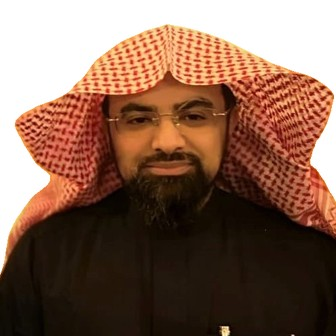
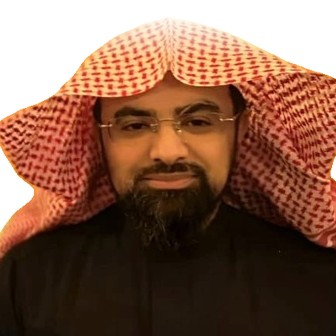
The reciters' photos by Talal's decision and on his responsibility (0054-add1): Mishary Alafasy (Commons, «Copyrighted free use», quranic.ru), Ahmad Al-Ajmi (Commons, CC BY-SA 3.0, أحمد زين) and Yasser Al-Dosari (Flickr, CC BY-SA 2.0, Hudhayfah Ammar), each cut out on white with rembg; all five recu
Claude-Session: https://claude.ai/code/session_01Us2TDE7NdZ8Jsqkkr4TUAg

diff --git a/worker/test/sources.test.ts b/worker/test/sources.test.ts
@@ -167,9 +167,9 @@ describe('the registry (data/sources.json)', () => {
     const dir = path.join(ROOT, 'web/src/v2/reading/photos')
     const avatar = fs.readFileSync(path.join(ROOT, 'web/src/v2/reading/ReciterAvatar.tsx'), 'utf8')
     const files = fs.readdirSync(dir).sort()
-    expect(files).toEqual(['abdulrahman-alsudais.jpg', 'nasser-alqatami.jpg'])
+    expect(files).toEqual(['abdulrahman-alsudais.jpg', 'ahmad-alajmi.jpg', 'mishary-alafasy.jpg', 'nasser-alqatami.jpg', 'yasser-aldosari.jpg'])
     for (const f of files) expect(avatar).toContain(`'./photos/${f}'`)
-    expect(avatar).toMatch(/RECITER_PHOTOS[^=]*= \{ 86: qatami, 54: sudais \}/)
+    expect(avatar).toMatch(/RECITER_PHOTOS[^=]*= \{ 86: qatami, 54: sudais, 123: afasy, 5: ajmi, 92: dosari \}/)
     const qatami = byId('photo-alqatami')
     expect(qatami.licence).toEqual({ name: 'CC BY-SA 4.0', url: 'https://creativecommons.org/licenses/by-sa/4.0/' })
     expect((qatami.credit as Record<string, string>).ar).toBe('أيمن ذو الغنى، CC BY-SA 4.0، عبر ويكيميديا كومنز')
@@ -180,6 +180,17 @@ describe('the registry (data/sources.json)', () => {
     for (const s of [qatami, sudais]) {
       expect(s.group).toBe('recitation')
       expect(String(s.site)).toMatch(/^https:\/\/commons\.wikimedia\.org\/wiki\/File:/)
+    }
+    // 0054-add1: three more, each with the licence its page declares, word for word, and the link to the file.
+    const more = { 'photo-alafasy': ['Copyrighted free use', 'quranic.ru، Copyrighted free use، عبر ويكيميديا كومنز', /^https:\/\/commons\.wikimedia\.org\/wiki\/File:/],
+      'photo-alajmi': ['CC BY-SA 3.0', 'أحمد زين، CC BY-SA 3.0، عبر ويكيميديا كومنز', /^https:\/\/commons\.wikimedia\.org\/wiki\/File:Ahmad_bin_Ali_Al-Ajmi\.png$/],
+      'photo-aldosari': ['CC BY-SA 2.0', 'Hudhayfah Ammar، CC BY-SA 2.0، عبر فليكر', /^https:\/\/www\.flickr\.com\/photos\/193847236@N06\/52088123559\/$/] } as const
+    for (const [id, [lic, ar, site]] of Object.entries(more)) {
+      const s = byId(id)
+      expect(s.group, id).toBe('recitation')
+      expect((s.licence as { name: string }).name, id).toBe(lic)
+      expect((s.credit as Record<string, string>).ar, id).toBe(ar)
+      expect(String(s.site), id).toMatch(site)
     }
   })
 })

diff --git a/web/src/v2/reading/ReciterAvatar.tsx b/web/src/v2/reading/ReciterAvatar.tsx
@@ -1,14 +1,19 @@
 import type { Reciter } from '../../quran/recitation'
 import qatami from './photos/nasser-alqatami.jpg'
 import sudais from './photos/abdulrahman-alsudais.jpg'
+import afasy from './photos/mishary-alafasy.jpg'
+import ajmi from './photos/ahmad-alajmi.jpg'
+import dosari from './photos/yasser-aldosari.jpg'
 import './ReciterAvatar.css'
 
 /** The reciters' photos (reply 0047 §1; CLAUDE.md §8: real photos of reciters with a known licence and its credit), by
- *  mp3quran's read id, cut to the head and shoulders from the Commons files: Nasser Alqatami by Ayman dhū alghiná
- *  (CC BY-SA 4.0, VRT ticket 2024071410002913; the cut stays CC BY-SA 4.0), Abdulrahman Alsudais by the Prime
- *  Minister's Office of India (GODL-India); both cut out on white with rembg (reply 0054 أ1). Their credits are on
- *  «المصادر والشكر» (data/sources.json). */
-export const RECITER_PHOTOS: Partial<Record<number, string>> = { 86: qatami, 54: sudais }
+ *  mp3quran's read id, cut to the head and shoulders and cut out on white with rembg, one frame for all (reply 0054 أ1):
+ *  Nasser Alqatami by Ayman dhū alghiná (CC BY-SA 4.0, VRT ticket 2024071410002913), Abdulrahman Alsudais by the Prime
+ *  Minister's Office of India (GODL-India), Mishary Alafasy from quranic.ru («Copyrighted free use» on Commons), Ahmad
+ *  Al-Ajmi by أحمد زين (CC BY-SA 3.0) and Yasser Al-Dosari by Hudhayfah Ammar on Flickr (CC BY-SA 2.0); the cuts of
+ *  the CC BY-SA ones stay under their licence. The last three by Talal's decision and on his responsibility (0054-add1).
+ *  Abdulbasit Abdulsamad keeps his initial: no licensed photo of him shows his face. Credits on «المصادر والشكر». */
+export const RECITER_PHOTOS: Partial<Record<number, string>> = { 86: qatami, 54: sudais, 123: afasy, 5: ajmi, 92: dosari }
 
 /** A reciter's circle (board RecitersFav): his photo where there is one, else the initial of his name in a medallion.
  *  His name is always written beside it, so the circle is hidden from screen readers. */

diff --git a/web/e2e/v2-0047.spec.ts b/web/e2e/v2-0047.spec.ts
@@ -22,7 +22,7 @@ const shot = async (page: Page, name: string, el?: ReturnType<Page['locator']>) 
   fs.mkdirSync(SHOTS, { recursive: true })
   await (el ?? page).screenshot({ path: path.join(SHOTS, `${name}.png`), animations: 'disabled' })
 }
-const PHOTOS = [86, 54]
+const PHOTOS = [86, 54, 123, 5, 92] // 0054-add1: Abdulbasit (53) keeps his initial
 const byRead = (read: number) => config.reciters.find((r) => r.read === read)!
 
 test.describe('§1 the reciters\' photos', () => {
@@ -60,10 +60,10 @@ test.describe('§1 the reciters\' photos', () => {
     const avatar = sheet.locator('.rd-listen .rd-avatar')
     await expect(avatar.locator('img')).toHaveCount(PHOTOS.includes(config.reciters[0].read) ? 1 : 0)
     await shot(page, 'listen-ar', sheet.locator('.rd-listen'))
-    // Mishary Alafasi has no photo with a known licence: the initial.
-    await page.evaluate(() => localStorage.setItem('imuslim.reciter.v1', '123'))
+    // Abdulbasit Abdulsamad has no photo that shows his face (0054-add1): the initial.
+    await page.evaluate(() => localStorage.setItem('imuslim.reciter.v1', '53'))
     await page.reload()
-    await expect(page.locator('dialog.sheet[open] .rd-listen .rd-avatar')).toHaveText('م')
+    await expect(page.locator('dialog.sheet[open] .rd-listen .rd-avatar')).toHaveText('ع')
     await expect(page.locator('dialog.sheet[open] .rd-listen .rd-avatar img')).toHaveCount(0)
   })
 

diff --git a/web/e2e/v2-0047-player.spec.ts b/web/e2e/v2-0047-player.spec.ts
@@ -182,7 +182,7 @@ test('«تغيير القارئ» in the sheet: the reciters with their photos; 
   await sheet.getByRole('button', { name: ar.changeReciter }).click()
   const picker = page.locator('dialog.sheet[open]', { has: page.locator('.np-picker') })
   await expect(picker.locator('.np-pick')).toHaveCount(config.reciters.length)
-  await expect(picker.locator('.np-pick .rd-avatar img')).toHaveCount(2)
+  await expect(picker.locator('.np-pick .rd-avatar img')).toHaveCount(5) // 0054-add1: all but Abdulbasit
   await picker.locator('.np-pick', { hasText: qatami.name.ar }).click()
   await expect(sheet.locator('.np-name')).toHaveText(qatami.name.ar)
   await expect(sheet.locator('.rd-avatar.is-large img')).toHaveCount(1)

diff --git a/docs/DECISIONS.md b/docs/DECISIONS.md
@@ -999,3 +999,7 @@
     - **الذكر بلفظ آخر في الحديث:** يُبنى بالتبديل الذي يذكره الحديث أو شرحه بنصه، ولا يُعرض قبل مراجعة المنسّق حالةً حالة. وإن لم يذكره الحديث ولا شرحه، لا يُبنى شيء.
     - **وفي `mawaqif.json`:** كل ذكر قرآني يأخذ حقل `quran` نفسه.
   - **CLAUDE.md §3 القاعدة 4:** سطر الاستثناء.
+- **صور القرّاء على خلفية بيضاء** (رد 0054 أ1، والملحق 0054-add1، كلمة طلال 14 أكتوبر 17:47: «ما ابغا تواصل سوي الخطوه وانا بتحمل المسؤولية ابغا صورهم بخلفية بيضه لهم كلهم»):
+  - الصور الأربع ذات التوثيق الضعيف أُدخلت بقرار طلال وعلى مسؤوليته، بعد أن بيّن له المنسّق أن التفريغ لا يغني عن الإذن.
+  - **ما دخل:** صور منشورة برخصة حرة معلنة وحدها، مفرّغة على الأبيض بإطار واحد (rembg). وأُلغيت قنوات الإذن (0054 أ3)، ولا يُرسل شيء لأحد.
+  - **عبدالباسط عبدالصمد:** يبقى بحرفه الأول في البناء 11، لأن صورتيه برخصة معلنة في كومنز لا يظهر فيهما وجهه (مع الملك فيصل، ودار العلوم بديوبند). والقرار لطلال.
